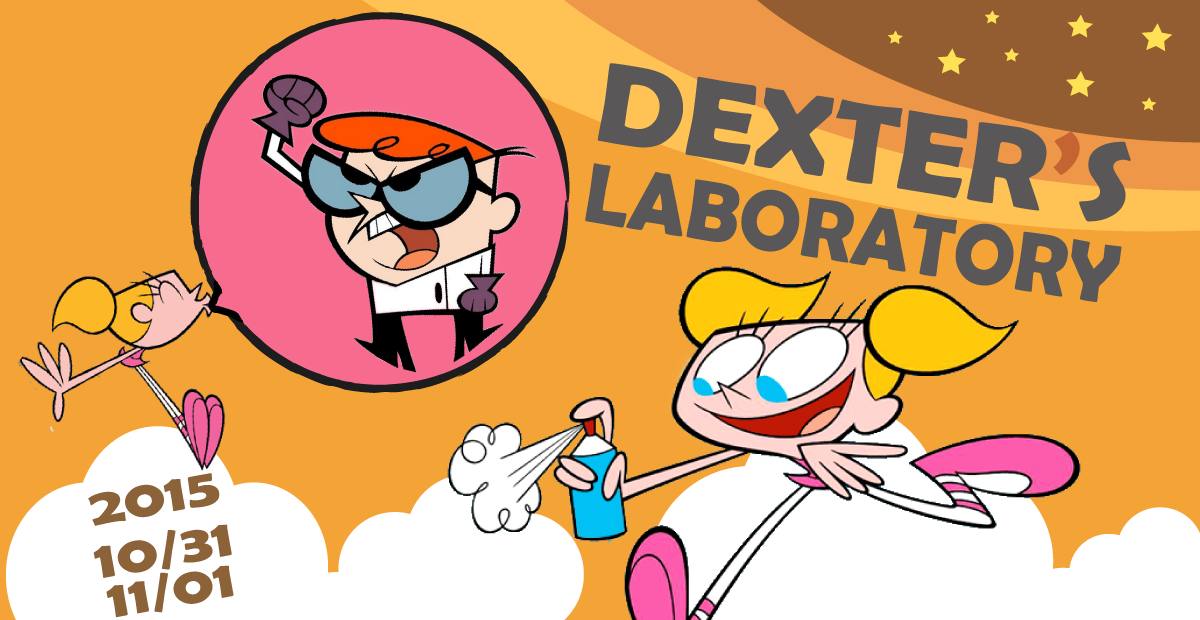
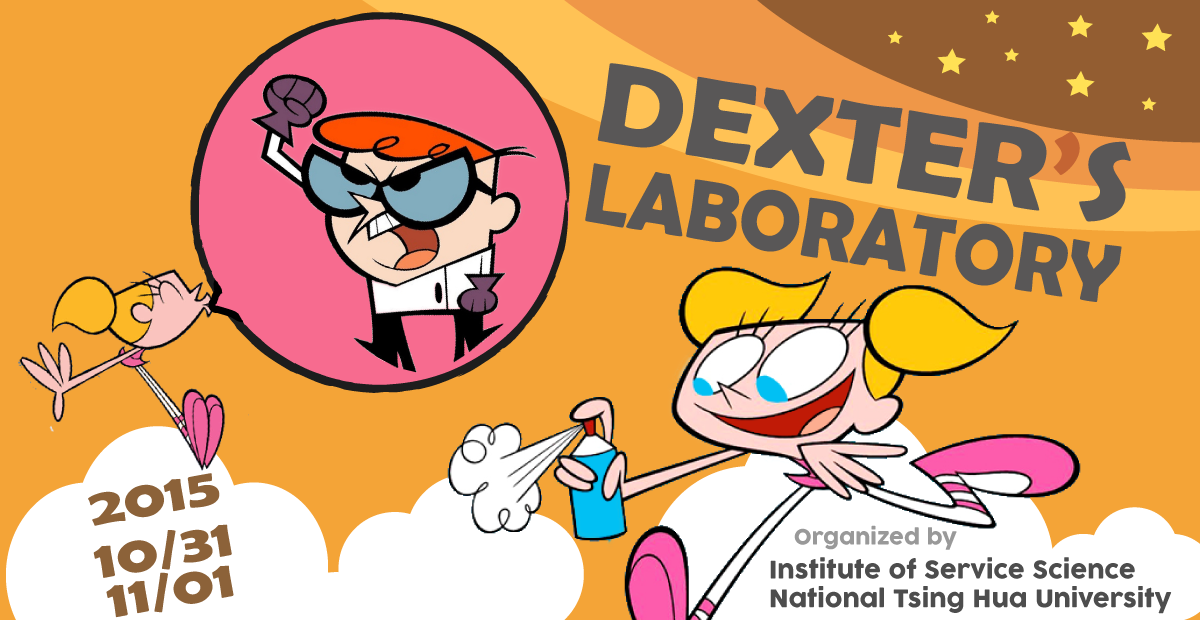
image and layout slight change

Changed region(s): [[0.6167, 0.7968, 1.0, 1.0], [0.9867, 0.9806, 1.0, 1.0]]

diff --git a/public/partials/index.html b/public/partials/index.html
@@ -158,36 +158,36 @@
                                 <p>
                                 Fabulas detraxit mei no, sea facete appellantur interpretaris cu. Ea per deseruisse quaerendum. Debet principes an vis. Porro debitis adversarium ne pri, alia decore placerat cu duo. Nobis referrentur sit te, has quis dictas discere et.
                                 </p>
-                								<ul class="list-unstyled">
+								<ul class="list-unstyled">
+                                    <li>
+                                        <span class="icon icon-magnifying-glass icon-3x icon-tertiary alignleft" style="margin-right: 30px;"></span>
+                                        <h5>主辦單位</h5>
+                                        <p>
+                                          國立清華大學 服務科學研究所
+                                        </p>
+                                    </li>
                                   <li>
-                                     <span class="icon icon-clock icon-3x icon-quaternary alignleft"></span>
+                                    <span class="icon icon-clock icon-3x icon-quaternary alignleft" style="margin-right: 30px;"></span>
                                     <h5>活動時間</h5>
                                     <p>
                                       10/31 - 11/01, 2015
                                     </p>
                                   </li>
-                									<li>
-                                    <span class="icon icon-browser icon-3x icon-secondary alignleft"></span>
-                										<h5>報名截止</h5>
-                										<p>
-                										   10/16 , 2015
-                										</p>
-                									</li>
-                									<li>
-                										 <span class="icon icon-tools-2 icon-3x icon-tertiary alignleft"></span>
-                										<h5>活動地點</h5>
-                										<p>
-                										  國立清華大學台積館 R309
-                										</p>
-                									</li>
-                									<!-- <li>
-                                    <span class="icon icon-magnifying-glass icon-3x icon-tertiary alignleft"></span>
-                										<h5>人數</h5>
-                										<p>
-                										  36 - 48人，不限背景
-                										</p>
-                									</li>
- -->                                </ul>
+    								<li>
+                                        <span class="icon icon-browser icon-3x icon-secondary alignleft"></span>
+    									<h5>報名截止</h5>
+    									<p>
+    									   10/16 , 2015
+    									</p>
+    								</li>
+    								<li>
+    									 <span class="icon icon-tools-2 icon-3x icon-tertiary alignleft" style="margin-right: 30px;"></span>
+    									<h5>活動地點</h5>
+    									<p>
+    									  國立清華大學台積館 R309
+    									</p>
+    								</li>
+                                </ul>
                             </div>    
                             <!-- End Slide 03 -->
                         </div>  
